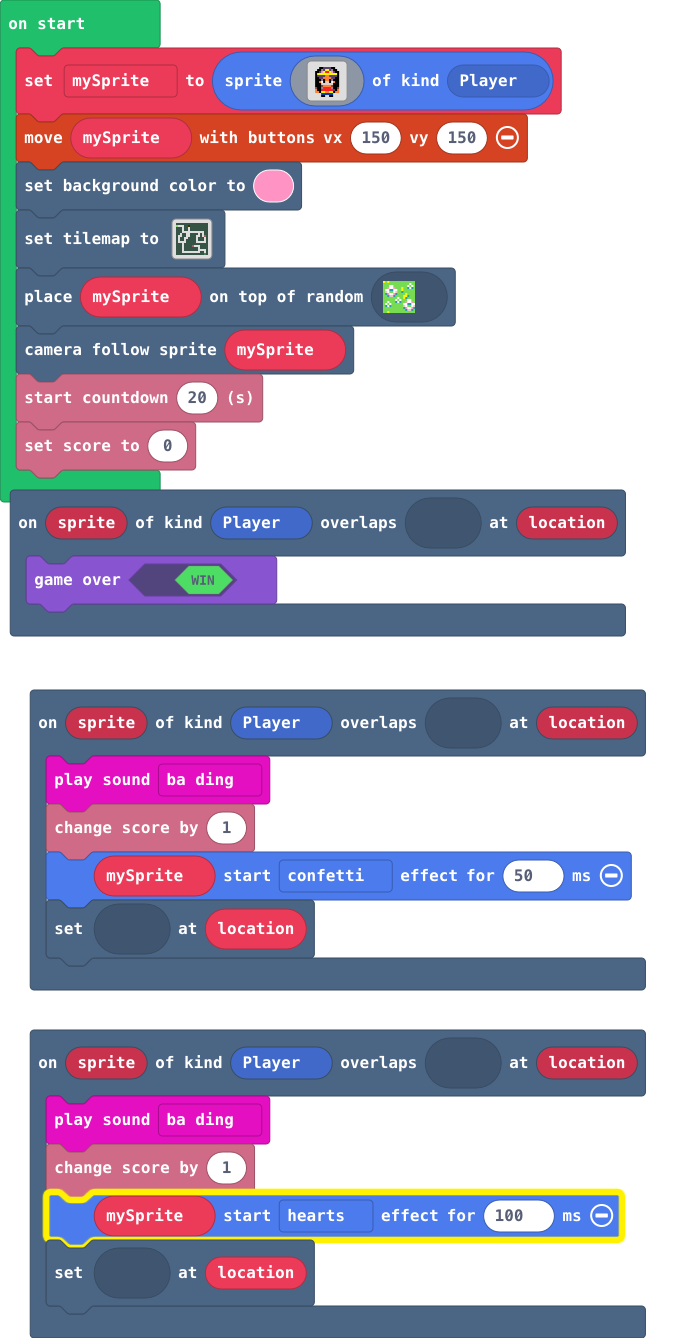
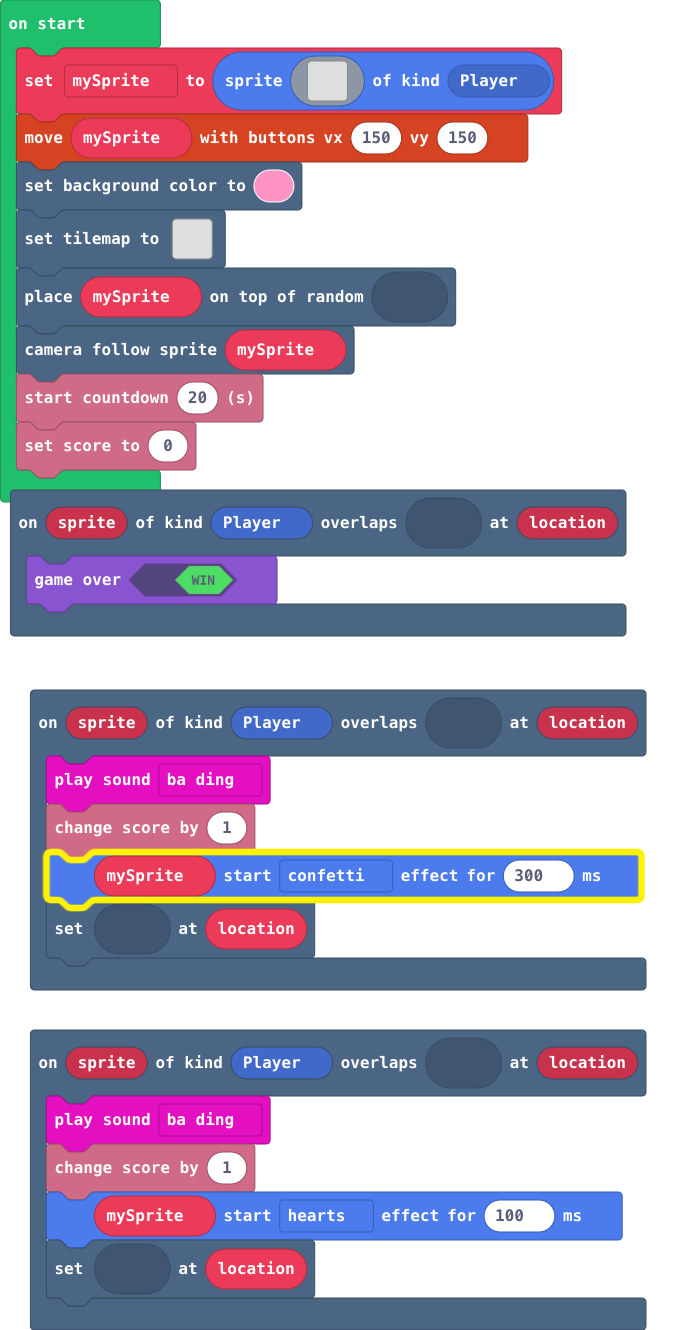
Update main.blocks, main.ts

diff --git a/main.ts b/main.ts
@@ -4,7 +4,7 @@ scene.onOverlapTile(SpriteKind.Player, sprites.castle.shrub, function (sprite, l
 scene.onOverlapTile(SpriteKind.Player, sprites.dungeon.chestClosed, function (sprite, location) {
     music.baDing.play()
     info.changeScoreBy(1)
-    mySprite.startEffect(effects.confetti, 50)
+    mySprite.startEffect(effects.confetti, 300)
     tiles.setTileAt(location, myTiles.transparency16)
 })
 scene.onOverlapTile(SpriteKind.Player, myTiles.tile1, function (sprite, location) {
